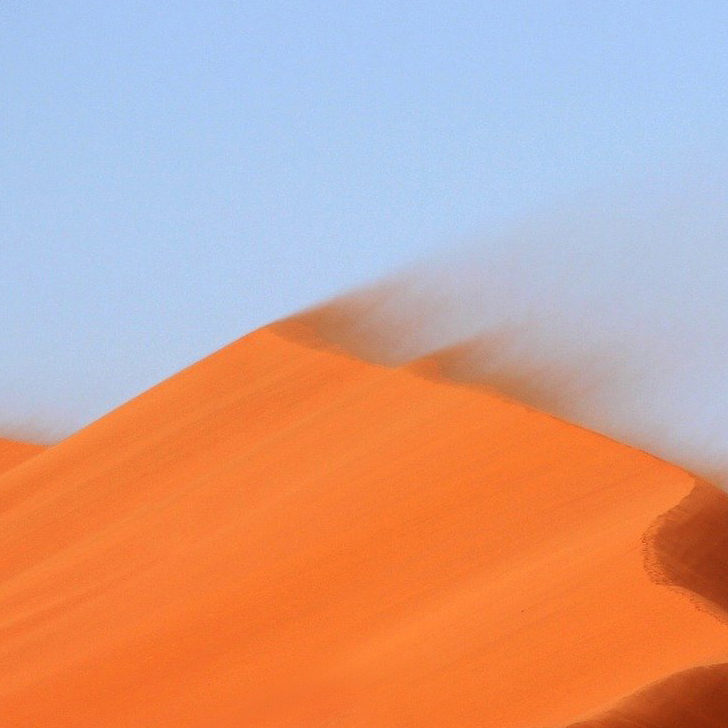
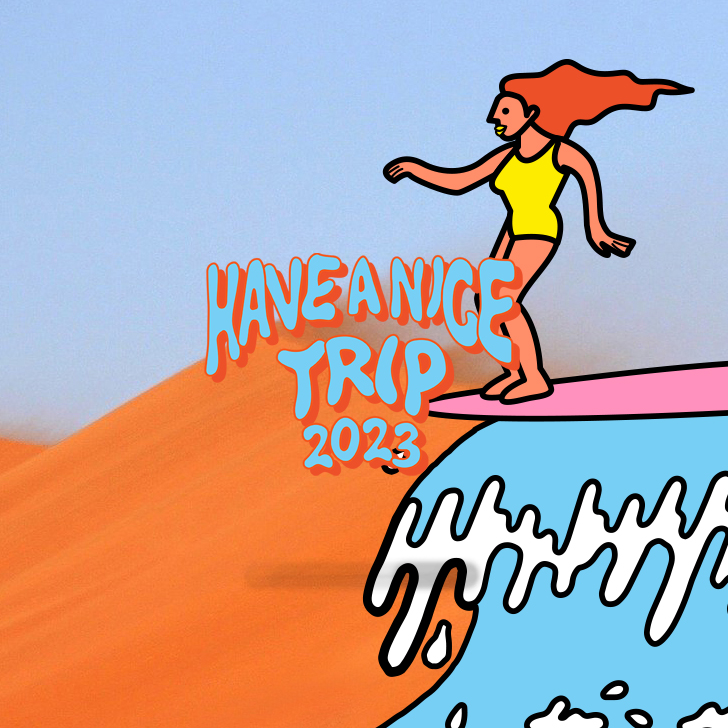
myWeb 이미지 추가

diff --git a/index.html b/index.html
@@ -150,8 +150,8 @@
             </div>
             <div class="web web4">
                 <div class="web-txt">
-                    <h3>untitle</h3>
-                    <p>untitle</p>
+                    <h3>Have a nice trip 2023</h3>
+                    <p>web</p>
                 </div>
             </div>
         </section>
